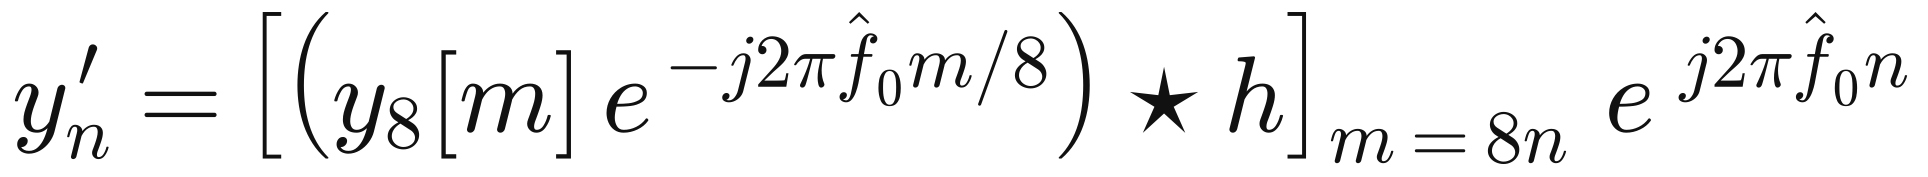
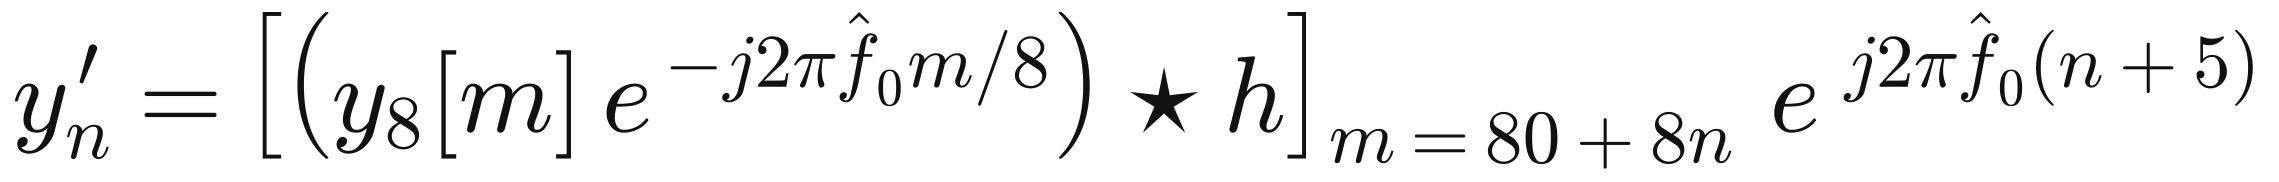
Slides: implementation-exact equations (pre-MF indexing, n_c, M&M, CRC search, refinement, Newton retry, rho threshold) and BLER plot with CIs and 3/n bounds
Claude-Session: https://claude.ai/code/session_01Uut9iw5SnA6a3eeYDv3vkc

diff --git a/slides_eq/plot_bler.py b/slides_eq/plot_bler.py
@@ -1,9 +1,10 @@
-"""BLER plots for the slides: the blind receiver vs the single best 128-pilot benchmark.
+"""BLER plot for the slides: the blind receiver vs the single best 128-pilot benchmark, with statistics.
 
-Benchmark: ML direct (FFT 512 + 2 Newton) on 128 contiguous pilots, with the same CRC-16
-search and the same re-encoding check as blind (study est3/).  Blind: the final receivers of
-the |f| <= 0.03 study (small_cfo/).  Points with 0 errors are drawn hollow at 1/frames
-(an upper bound).
+Benchmark: ML direct (FFT 512 + 2 Newton) on 128 contiguous pilots, with the same CRC-16 search and the same
+re-encoding check as blind (study est3/).  Blind: the final receivers of the |f| <= 0.03 study.
+Points with errors: BLER = errors / packets with the exact (Clopper-Pearson) 95 % interval.
+Points with 0 errors: not a measured BLER; drawn as an open marker with a downward arrow at the one-sided
+95 % upper bound 3/n (n = packets simulated at that point).
 
 Usage:  python slides_eq/plot_bler.py <dir with est3 bler_k*.json and blind_ber.json>
 """
@@ -16,39 +17,65 @@ import matplotlib
 
 matplotlib.use("Agg")
 import matplotlib.pyplot as plt
+from scipy.stats import beta
 
 SRC = sys.argv[1]
 OUT = os.path.dirname(os.path.abspath(__file__))
 BLIND_RX = {"1/10": "S blind final v2", "2/5": "S blind final 2/5, 1/2, best-first 32", "1/2": "S blind final 2/5, 1/2"}
 RANGE = {"1/10": (-5, 0), "2/5": (0.5, 3), "1/2": (1.5, 5)}
+NAVY, ORANGE = "#003366", "#E07B39"
 
 rows = []
 for p in glob.glob(os.path.join(SRC, "bler_k*.json")):
     rows += json.load(open(p))["results"]
 blind = json.load(open(os.path.join(SRC, "blind_ber.json")))
 
-plt.rcParams.update({"font.size": 14, "font.family": "DejaVu Sans"})
-for rate, (lo, hi) in RANGE.items():
+
+def cp(k, n):
+    return (beta.ppf(0.025, k, n - k + 1) if k else 0.0), beta.ppf(0.975, k + 1, n - k)
+
+
+plt.rcParams.update({"font.size": 13, "font.family": "DejaVu Sans"})
+fig, axs = plt.subplots(1, 3, figsize=(13.2, 4.7))
+for ax, (rate, (lo, hi)) in zip(axs, RANGE.items()):
     ml = sorted((r["snr"], r["frame_err"], r["frames"]) for r in rows
                 if r["rate"] == rate and r["src"] == "ML direct" and lo <= r["snr"] <= hi)
     bl = sorted((x["snr"], x["frame_err"], x["frames"]) for x in blind
                 if x["rate"] == rate and x["rx"] == BLIND_RX[rate] and lo <= x["snr"] <= hi)
-    fig, ax = plt.subplots(figsize=(6.6, 4.6))
-    for pts, lab, c, mk, ls in ((bl, "blind, 0 pilots", "#003366", "o", "-"),
-                                (ml, "ML + re-encoding check, 128 pilots", "#E07B39", "^", "--")):
-        x = [p[0] for p in pts]
-        y = [p[1] / p[2] if p[1] else None for p in pts]
-        ax.semilogy([a for a, b in zip(x, y) if b], [b for b in y if b], color=c, ls=ls, lw=2.6, marker=mk, ms=8, label=lab)
-        zx = [p[0] for p in pts if p[1] == 0]
-        zy = [1 / p[2] for p in pts if p[1] == 0]
-        if zx:
-            ax.semilogy(zx, zy, ls="none", marker=mk, ms=8, mfc="white", mec=c, mew=2)
+    for pts, lab, c, mk, ls, dx in ((bl, "blind, 0 pilots", NAVY, "o", "-", -0.04),
+                                    (ml, "ML + same search/check, 128 pilots", ORANGE, "^", "--", 0.04)):
+        e = [p for p in pts if p[1]]
+        x = [p[0] + dx for p in e]
+        y = [p[1] / p[2] for p in e]
+        ci = [cp(p[1], p[2]) for p in e]
+        ax.errorbar(x, y, yerr=[[b - a[0] for a, b in zip(ci, y)], [a[1] - b for a, b in zip(ci, y)]],
+                    color=c, ls="none", lw=2.2, marker=mk, ms=7, capsize=3, label=lab)
+        run = []                                      # lines only between adjacent SNRs that both had errors
+        for p in pts + [(None, 0, 1)]:
+            if p[1]:
+                run.append((p[0] + dx, p[1] / p[2]))
+                continue
+            if len(run) > 1:
+                ax.plot(*zip(*run), color=c, ls=ls, lw=2.2)
+            run = []
+        z = [p for p in pts if p[1] == 0]
+        for p in z:
+            ub = 3.0 / p[2]
+            ax.annotate("", xy=(p[0] + dx, ub / 2.2), xytext=(p[0] + dx, ub),
+                        arrowprops=dict(arrowstyle="-|>", color=c, lw=1.6, mutation_scale=11))
+        if z:
+            ax.plot([p[0] + dx for p in z], [3.0 / p[2] for p in z], ls="none", marker=mk, ms=7, mfc="white", mec=c, mew=1.8)
+        print(rate, lab, [(p[0], p[1], p[2]) for p in pts])
+    ax.set_yscale("log")
     ax.set_xlabel("SNR (Es/N0) [dB]")
-    ax.set_ylabel("BLER")
     ax.set_title(f"R = {rate}", fontweight="bold")
     ax.grid(True, which="both", ls=":", alpha=0.5)
-    ax.legend(fontsize=12, loc="upper right", frameon=False)
-    fig.tight_layout()
-    fig.savefig(os.path.join(OUT, f"bler_R{rate.replace('/', '_')}.png"), dpi=200)
-    plt.close(fig)
-    print(rate, "blind", bl, "\n     ML", ml)
+axs[0].set_ylabel("BLER")
+h, l = axs[0].get_legend_handles_labels()
+h = [plt.Line2D([], [], color=NAVY, ls="-", lw=2.2, marker="o", ms=7), plt.Line2D([], [], color=ORANGE, ls="--", lw=2.2, marker="^", ms=7)]
+l = ["blind, 0 pilots (95 % CI)", "ML + same search/check, 128 pilots (95 % CI)"]
+h.append(plt.Line2D([], [], ls="none", marker="o", mfc="white", mec="#555555", mew=1.8, ms=7))
+l.append("0 errors: one-sided 95 % upper bound 3/n (arrow)")
+fig.legend(h, l, loc="lower center", ncol=3, fontsize=12, frameon=False)
+fig.tight_layout(rect=(0, 0.08, 1, 1))
+fig.savefig(os.path.join(OUT, "bler_all.png"), dpi=200, facecolor="white")

diff --git a/slides_eq/render_eq.py b/slides_eq/render_eq.py
@@ -90,6 +90,32 @@ EQ = {
     "jvalid": r"$M_h\approx-\ln P(\hat{\mathbf{u}}\mid\mathbf{y}^{\prime},\,h)\ :\ \mathrm{same\ samples,\ same\ code}\ \Rightarrow\ \mathrm{comparable\ across}\ h$",
 }
 
+EQ.update({
+    "premf": r"$y^{\prime}_n=\left[\left(y_8[m]\,e^{-j2\pi\hat f_0 m/8}\right)\star h\right]_{m=80+8n}\;e^{\,j2\pi\hat f_0 (n+5)}$",
+    "nc": r"$n_c=n-511.5,\qquad y_n=s_n\,e^{\,j(2\pi f n_c+\theta)}+w_n\quad(\theta:\ \mathrm{phase\ at\ the\ packet\ centre})$",
+    "ph1": r"$\sum_{n} v_n\,e^{-j2\pi\cdot 4\hat f_0 n_c}=e^{\,j4\theta}\sum_n e^{\,j2\pi\cdot 4(f-\hat f_0)n_c}+\mathrm{noise}\ \approx\ 1024\,e^{\,j4\theta}$",
+    "theta0": r"$\hat\theta_0=\dfrac{1}{4}\,\arg\sum_{n} v_n\,e^{-j2\pi\cdot 4\hat f_0 n_c}$",
+    "xh": r"$x_n(f,\theta)=y^{\prime}_n\,e^{-j(2\pi f n_c+\theta)}\ \ \rightarrow\ \ \mathbf{L}=\mathrm{channel\ LLRs\ of}\ x_n$",
+    "mm4": r"$\hat f=\dfrac{1}{2\pi}\sum_{m=1}^{D} w(m)\,\arg\!\left[R(m)\,R^*(m-1)\right],\qquad R(0)\equiv 1$",
+    "crcs": r"$f_k=\hat f+k\,\Delta,\quad k=0,-1,+1,-2,+2,\ldots,\quad |k|\leq\left\lceil 5.2\sqrt{\mathrm{CRB}_{128}}/\Delta\right\rceil\ (=34\ \mathrm{at}\ -5\,\mathrm{dB})$",
+    "refph": r"$\theta_o=\hat\theta_0(f_c+o\Delta)+\mathrm{round}\!\left(\dfrac{\theta_c-\hat\theta_0(f_c+o\Delta)}{\pi/2}\right)\dfrac{\pi}{2}$",
+    "dd": r"$d_n=y^{\prime}_n\,\hat s_n^{\,*}\ \approx\ e^{\,j(2\pi f n_c+\theta)}+\mathrm{noise}\quad(\hat s:\ \mathrm{SC\ hard\ decisions})$",
+    "newton": r"$\Lambda(f)=\left|\sum_n d_n\,e^{-j2\pi f n_c}\right|^2,\qquad f_{t+1}=f_t-\dfrac{\Lambda^{\prime}(f_t)}{\Lambda^{\prime\prime}(f_t)},\quad t=0,1$",
+    "thdd": r"$\hat\theta=\arg\sum_n d_n\,e^{-j2\pi f_2 n_c}$",
+    "re0": r"$y^{\prime}_n\,\tilde s_n^{\,*}\,e^{-j2\pi\hat f n_c}\ \approx\ e^{\,j\theta}+\tilde w_n\quad(\tilde s=s),\qquad N_s=1024$",
+    "rho": r"$\rho=\dfrac{\left|\sum_n y^{\prime}_n\,\tilde s_n^{\,*}\,e^{-j2\pi\hat f n_c}\right|}{\sqrt{N_s\sum_n|y^{\prime}_n|^2}}\ \in[0,1]$",
+    "rho_right": r"$\rho_{\mathrm{right}}\approx\dfrac{N_s}{\sqrt{N_s\cdot N_s(1+1/s)}}=\sqrt{\dfrac{s}{1+s}}\ \ (0.49\ \mathrm{at}\ -5\ \mathrm{dB})$",
+    "rho_wrong": r"$P(\rho_{\mathrm{wrong}}>t)\approx e^{-N_s t^2}\ \ (4\cdot 10^{-7}\ \mathrm{at}\ t=0.12,\ \mathrm{one\ test})$",
+    "rho_th": r"$\rho>\max\!\left(0.12,\ \dfrac{1}{2}\sqrt{\dfrac{s}{1+s}},\ c_R(s)\sqrt{\dfrac{s}{1+s}}\right)=c_R(s)\sqrt{\dfrac{s}{1+s}}$",
+    "ci": r"$0\ \mathrm{events\ in}\ n\ \mathrm{trials}:\quad p<-\ln(0.05)/n\approx 3/n\quad(95\,\%\ \mathrm{one\ sided})$",
+    "crit": r"$W_{\mathrm{crit}}=W_{\mathrm{serial}}+\sum_{\mathrm{passes}\ p}\ \max_{\mathrm{core}}\ W_{p,\mathrm{core}}$",
+    "tot": r"$W_{\mathrm{total}}=\sum_{\mathrm{all\ work}}W\qquad(\mathrm{energy})$",
+    "test": r"$T_{\mathrm{est}}\approx\dfrac{W_{\mathrm{crit}}}{F_{\mathrm{MAC}}}+T_{\mathrm{overhead}}\qquad(\mathrm{model,\ not\ measured})$",
+    "tdec": r"$W_{\mathrm{dec}}=\dfrac{8N\log_2 N}{8}+6144+K\cdot 2L\log_2(2L)$",
+    "tput": r"$\eta=\dfrac{A\,(1-\mathrm{BLER})}{N_{\mathrm{tx}}}\ \ \mathrm{bits/symbol},\qquad N_{\mathrm{tx}}=1024\ (\mathrm{blind}),\ \ 1152\ (128+1024)$",
+    "tgain": r"$\dfrac{\eta_{\mathrm{blind}}}{\eta_{\mathrm{pilot}}}=\dfrac{1152}{1024}\cdot\dfrac{1-\mathrm{BLER}_b}{1-\mathrm{BLER}_p}\approx 1.125$",
+})
+
 
 def render(name, tex):
     fig = plt.figure(figsize=(0.01, 0.01))
